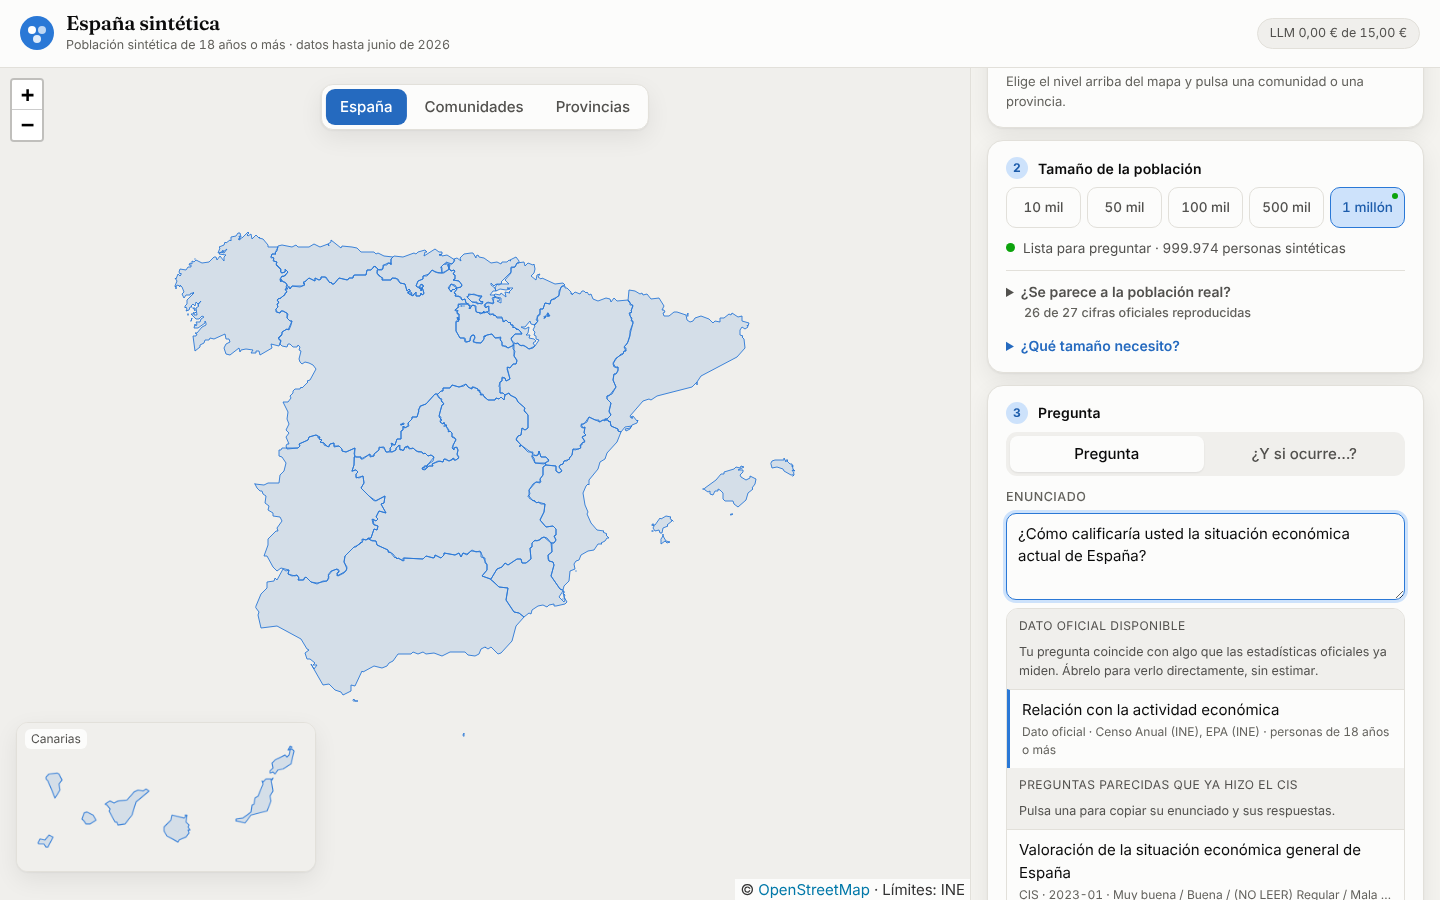
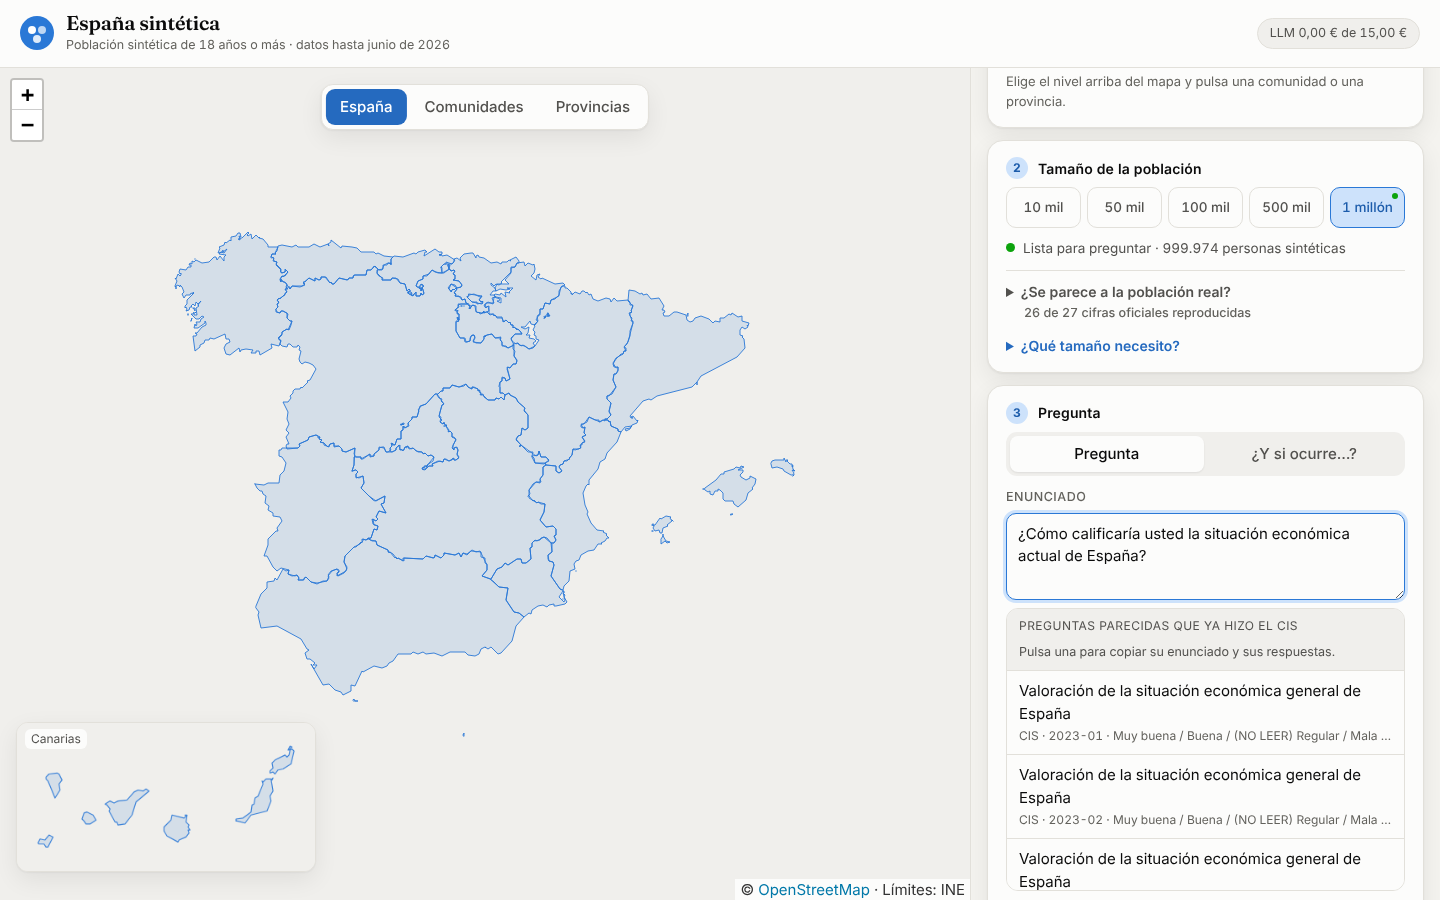
F14: capturas y prueba de extremo a extremo con la interfaz de la ronda 3 (modo paquete)
Claude-Session: https://claude.ai/code/session_01YEHryEmqEx38Xmxs1DbT8m

Changed region(s): [[0.6875, 0.6844, 0.9688, 1.0]]

diff --git a/reports/fase_14_puerta.md b/reports/fase_14_puerta.md
@@ -1,12 +1,12 @@
 # Puerta de la fase F14
 
 **Resultado:** superada  
-**Fecha:** 2026-10-22 · **Versión del código:** git:404e3b5-dirty  
+**Fecha:** 2026-10-22 · **Versión del código:** git:979d34f-dirty  
 **Comando:** `sinpop validate --phase 14`
 
 | ID | Comprobación | Resultado | Valor | Umbral |
 | --- | --- | --- | --- | --- |
-| G14.1 | Pruebas de extremo a extremo de pregunta, evento y exploración | ✅ | 6 pantallas; 0 errores JS | pasan |
+| G14.1 | Pruebas de extremo a extremo de pregunta, evento y exploración | ✅ | 8 pantallas; 0 errores JS | pasan |
 | G14.2 | Ninguna cifra sin intervalo y confianza; aviso en todos los resultados | ✅ | cifras con intervalo, confianza y aviso | test automático |
 | G14.3 | Accesibilidad sin errores graves (axe-core) | ✅ | 0 avisos de axe-core | 0 críticos o graves |
 | G14.4 | Revisión humana de la interfaz | ⏸ | pendiente (reports/fase_14.md) | aprobación |
